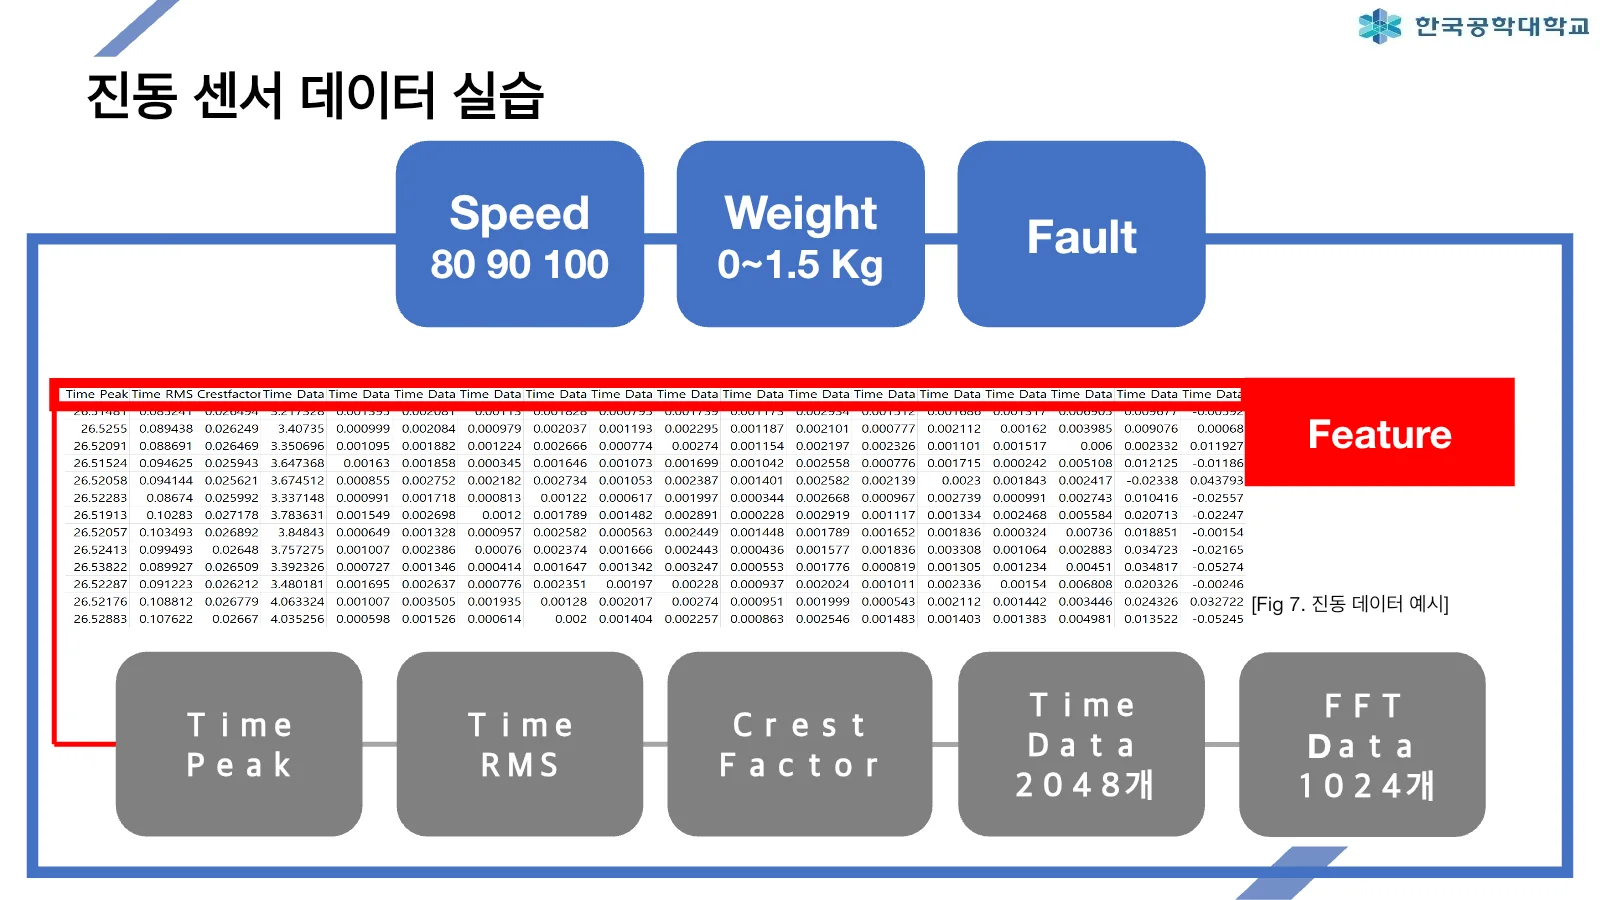
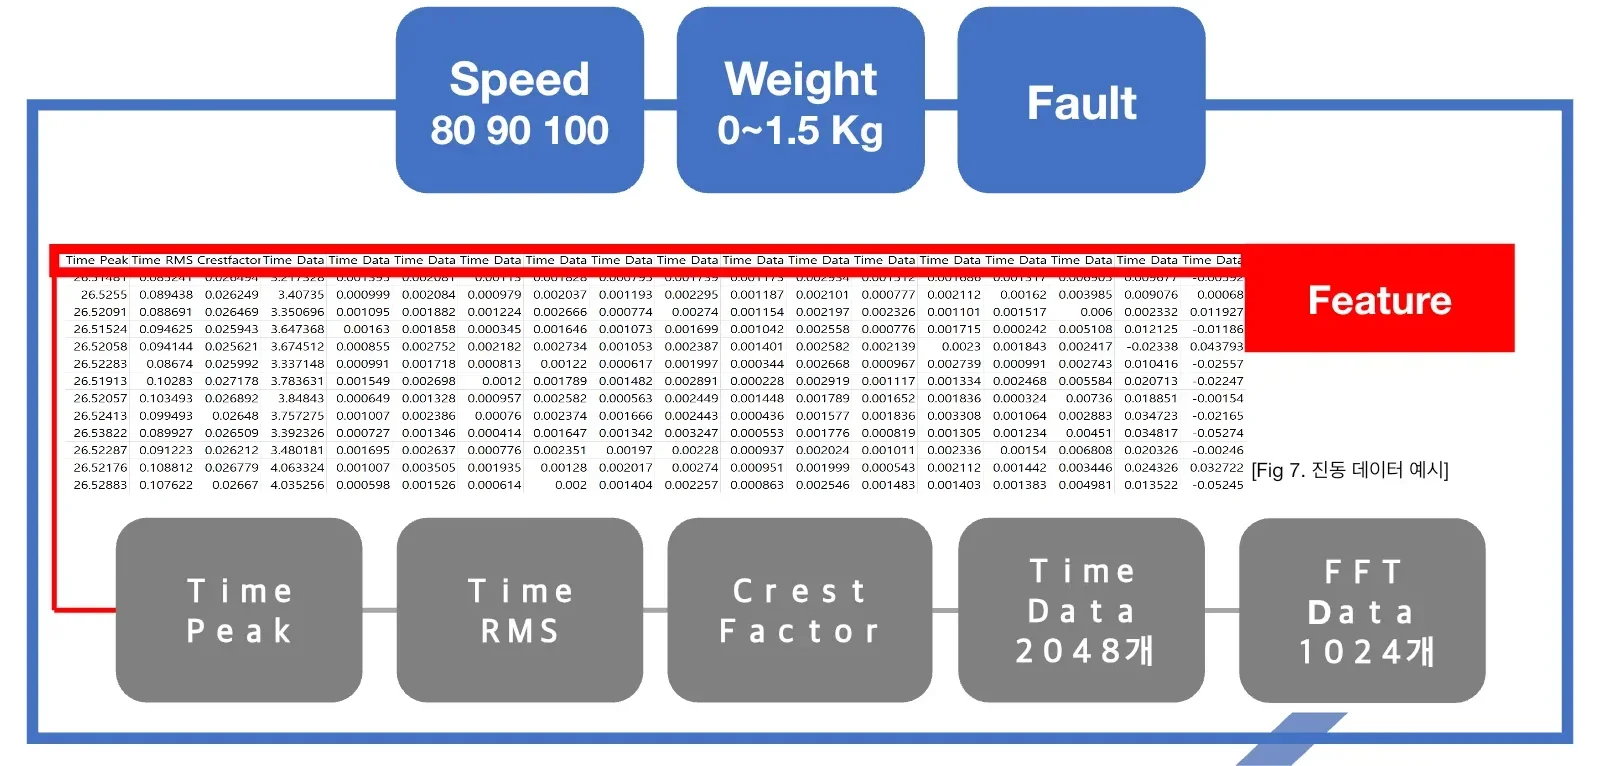
clarify PHM research role and crop source figure (#91)

diff --git a/spaceship-ui/site/content/posts/phm.md b/spaceship-ui/site/content/posts/phm.md
@@ -20,7 +20,7 @@ lang: 'ko'
 
 모터는 멈춘 뒤에야 고장을 알면 늦다. 생산 중단과 부품 손상이 이미 발생했기 때문이다. PHM(Prognostics and Health Management)은 온도·전류·진동처럼 설비가 내는 신호를 읽어 **현재 상태를 진단하고, 이상이 커지는 추세를 감시하며, 가능하면 남은 수명까지 추정하는 일**이다.
 
-이 글은 2024년 연구실에서 다룬 모터 진동 데이터와 당시 Python 코드를 2026년 기준으로 다시 감사한 기록이다. 새로 제공된 발표자료와 「고장 진단에 대한 연구」 PDF를 함께 검토해 실험 배경과 판단 기준을 보강했다. 다만 원 데이터는 비공개이므로 수치와 그림을 공개 벤치마크 성능처럼 일반화하지 않는다.
+이 글은 2024년 학부 연구생으로 연구실 석사과정 연구원의 논문 작업을 지원하며 다룬 모터 진동 데이터와 당시 Python 코드를, 2026년 기준으로 다시 감사한 기록이다. 발표자료는 당시 전처리 실습을 복원하는 직접 자료로 사용했고, 「고장 진단에 대한 연구」 PDF는 PHM과 로봇 감속기 고장 진단의 배경을 이해하기 위한 참고자료로만 검토했다. 다만 원 데이터는 비공개이므로 수치와 그림을 공개 벤치마크 성능처럼 일반화하지 않는다.
 
 > **먼저 결론:** 당시 파이프라인은 대용량 CSV를 읽고 IQR 처리, 스케일링, PCA, t-SNE까지 수행한 유의미한 탐색이었다. 하지만 예쁜 2차원 군집만으로 고장 진단에 성공했다고 말할 수는 없다. 운전 조건과 측정 세션을 먼저 분리하고, 라벨 누수 없이 새 세션에서 성능을 확인해야 비로소 진단 모델이 된다.
 
@@ -74,11 +74,11 @@ PHM은 세 문제를 포함한다.
 - sampling rate, window 길이와 overlap
 - 장비 교체·재장착·gain 변경 여부
 
-### 관련 PDF와 이 데이터는 같은 실험인가
+### 참고 논문은 이 실험의 원문이 아니다
 
-같다고 단정하면 안 된다. 「고장 진단에 대한 연구」는 산업용 로봇의 하모닉 드라이브를 대상으로 정상, 플렉스 스플라인 결함, 백래시 조건을 다루고 진동 센서와 3축 가속도 센서를 비교한다. 반면 이 글의 Python 파일과 발표자료는 `H`, `B`, `F` 같은 센서 그룹, 속도·하중을 파일명에서 읽는 별도 전처리 실습이다.
+아니다. 「고장 진단에 대한 연구」는 당시 연구실 석사과정 연구원의 논문 작업과 관련된 참고 문서다. 사용자는 학부 연구생으로 그 연구를 지원했지만, 이 PDF의 연구 전체를 본인의 단독 연구 성과로 제시하지 않는다. 문서는 산업용 로봇의 하모닉 드라이브를 대상으로 정상, 플렉스 스플라인 결함, 백래시 조건을 다루고 진동 센서와 3축 가속도 센서를 비교한다.
 
-PDF는 **좋은 실험 설계의 배경 자료**, 발표자료와 코드는 **당시 파이프라인의 직접 증거**로 사용했다. 두 자료의 라벨을 억지로 합치지 않았다.
+반면 이 글의 Python 파일과 발표자료는 `H`, `B`, `F` 같은 센서 그룹과 속도·하중을 파일명에서 읽는 별도 전처리 실습의 직접 자료다. 따라서 PDF는 **PHM 실험 설계를 이해하기 위한 참고자료**, 발표자료와 코드는 **사용자가 당시 지원하며 수행한 전처리·탐색 작업의 직접 증거**로 구분했다. 두 자료의 실험 조건과 라벨도 하나의 데이터셋처럼 합치지 않았다.
 
 ## 진동 특징을 물리적으로 읽는 법
 
@@ -250,7 +250,7 @@ ipca = IncrementalPCA(n_components=12, batch_size=10_000)
 ## 자료와 참고 원문
 
 - 내부 자료: 「인공지능 데이터 전처리」, 한국공학대학교 AML 연구실 세미나 발표자료, 2024-02-06.
-- 내부 자료: 박지호, 「고장 진단에 대한 연구」, 69쪽 연구 문서. 하모닉 드라이브 고장 유형, 센서 수집, 전처리와 평가 설계를 교차 확인하는 데 사용했다.
+- 참고자료: 연구실 석사과정 연구원의 논문 작업 관련 문서, 「고장 진단에 대한 연구」, 69쪽. 사용자는 당시 학부 연구생으로 연구를 지원했으며, 이 글에서는 하모닉 드라이브 고장 유형과 센서·검증 설계를 이해하는 참고자료로만 사용했다.
 - [scikit-learn PCA](https://scikit-learn.org/stable/modules/generated/sklearn.decomposition.PCA.html)
 - [scikit-learn IncrementalPCA](https://scikit-learn.org/stable/modules/generated/sklearn.decomposition.IncrementalPCA.html)
 - [scikit-learn common pitfalls: inconsistent preprocessing and data leakage](https://scikit-learn.org/stable/common_pitfalls.html)
